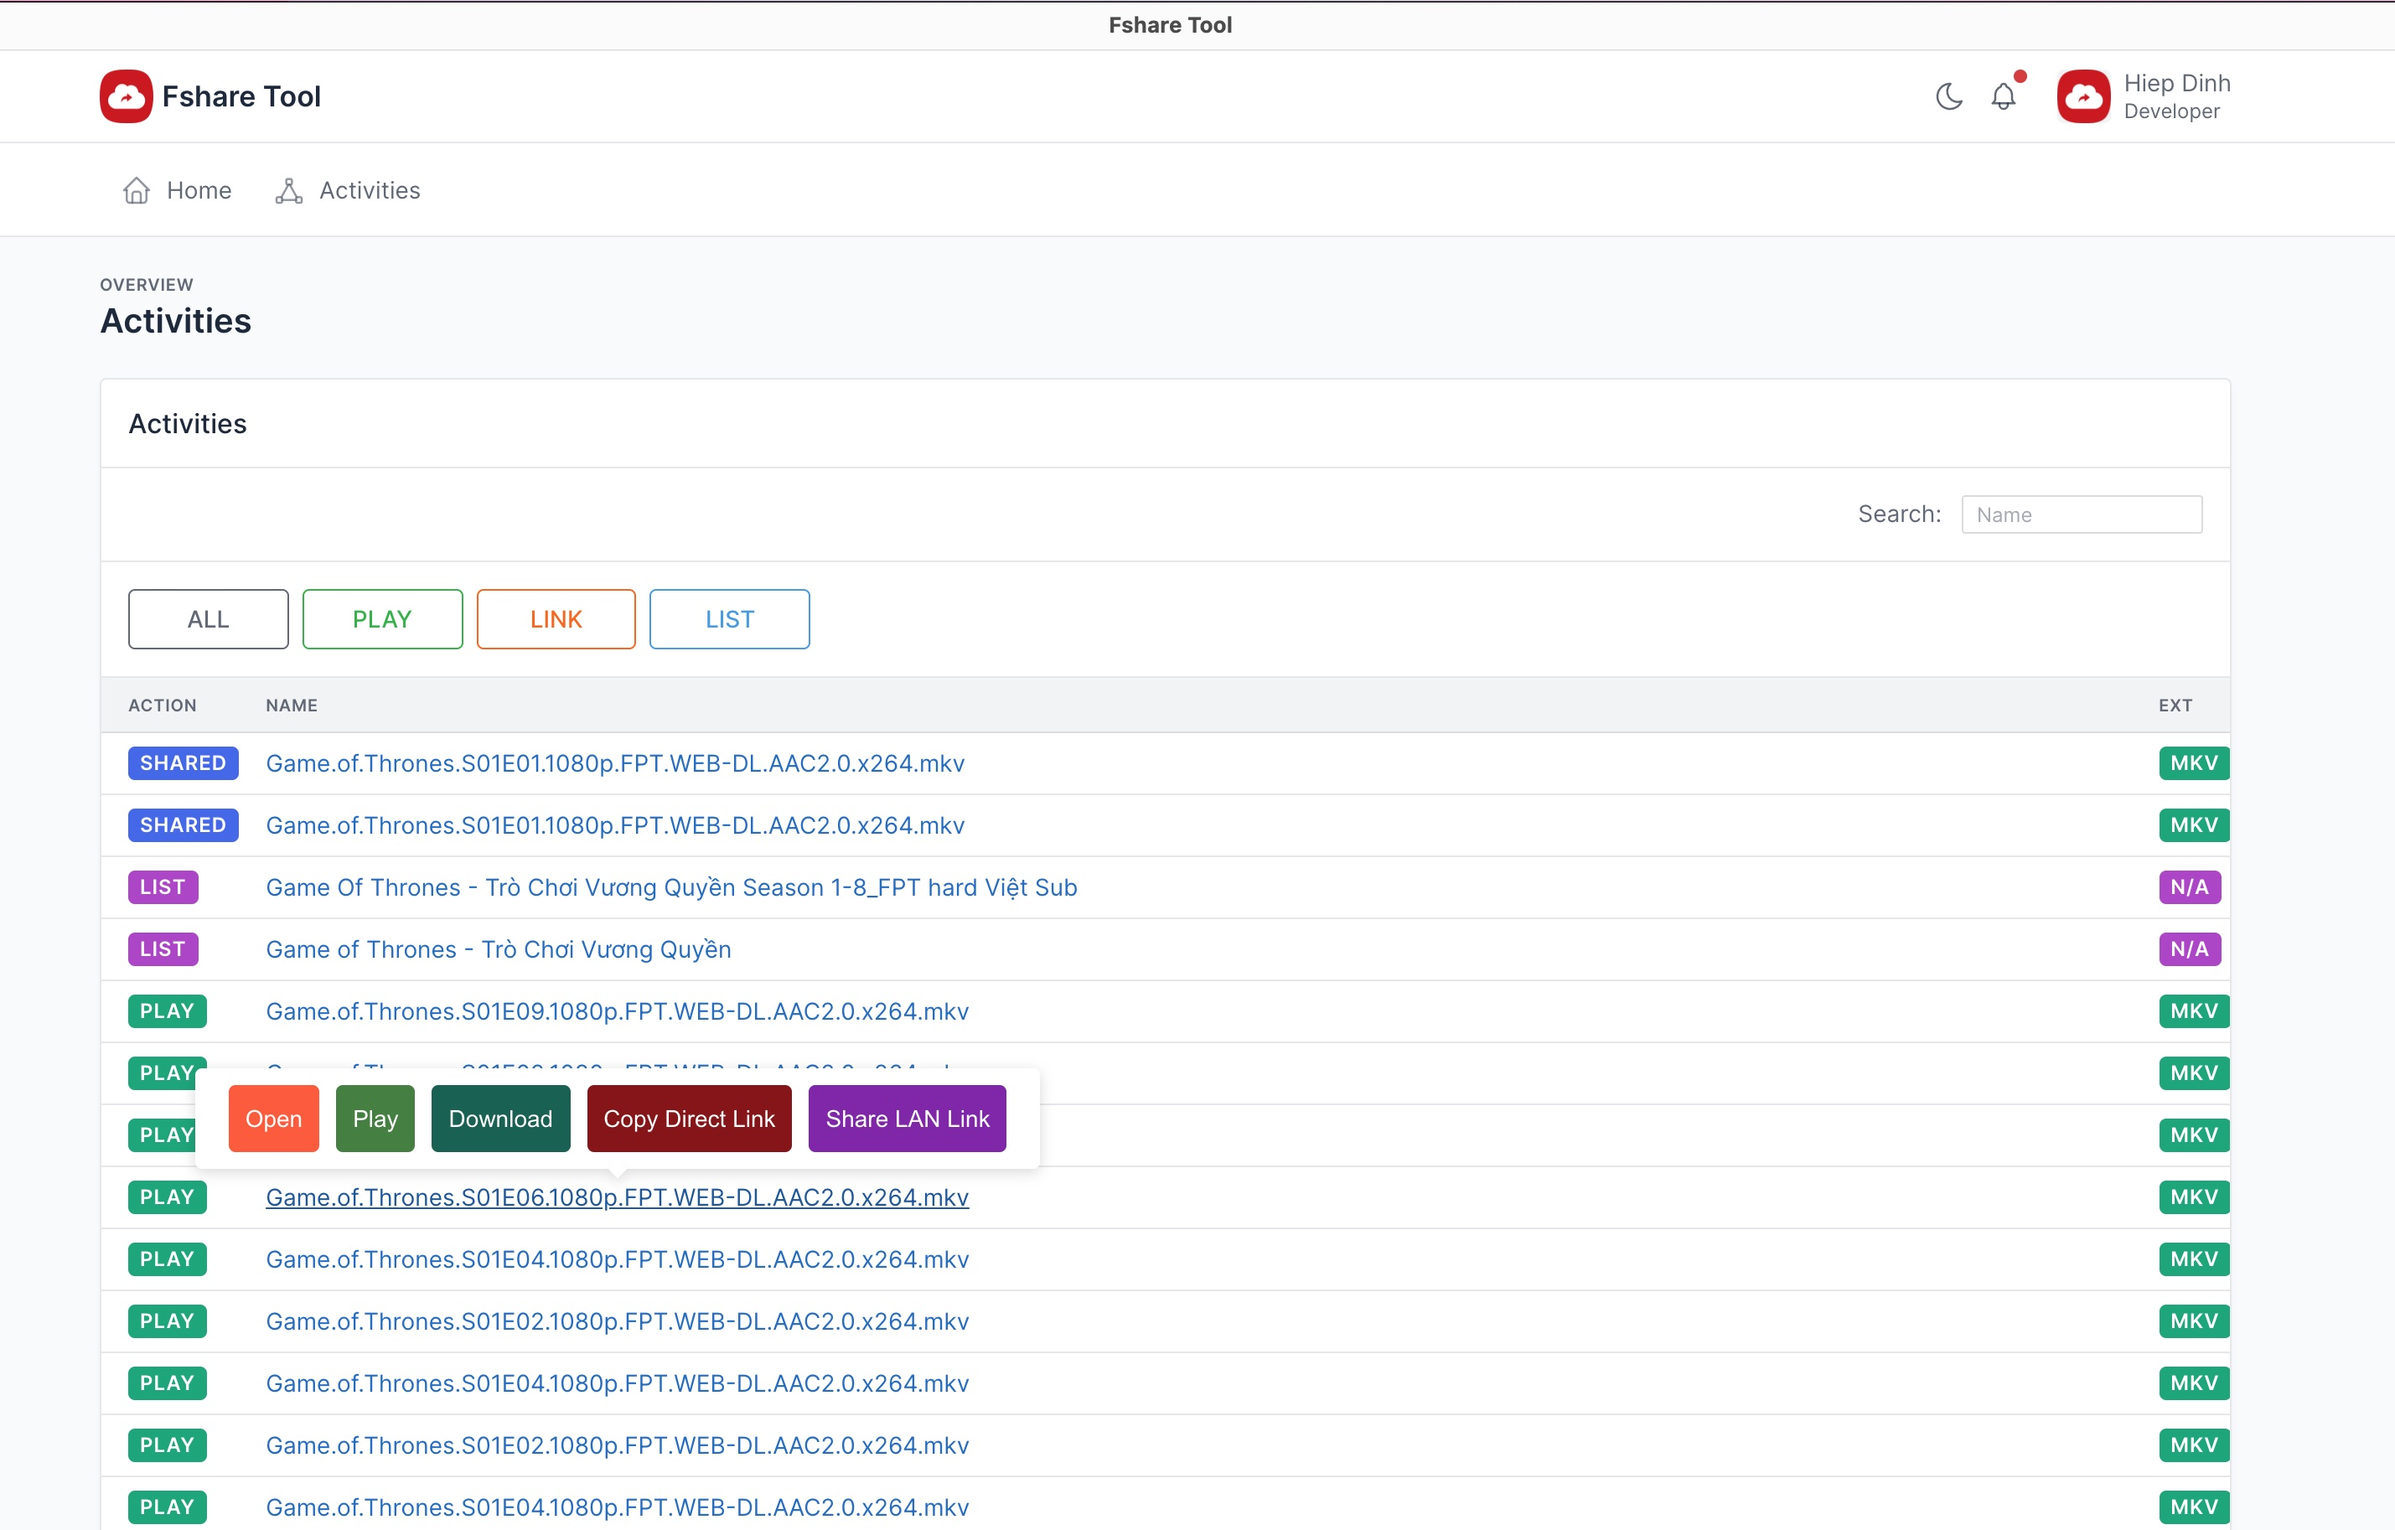
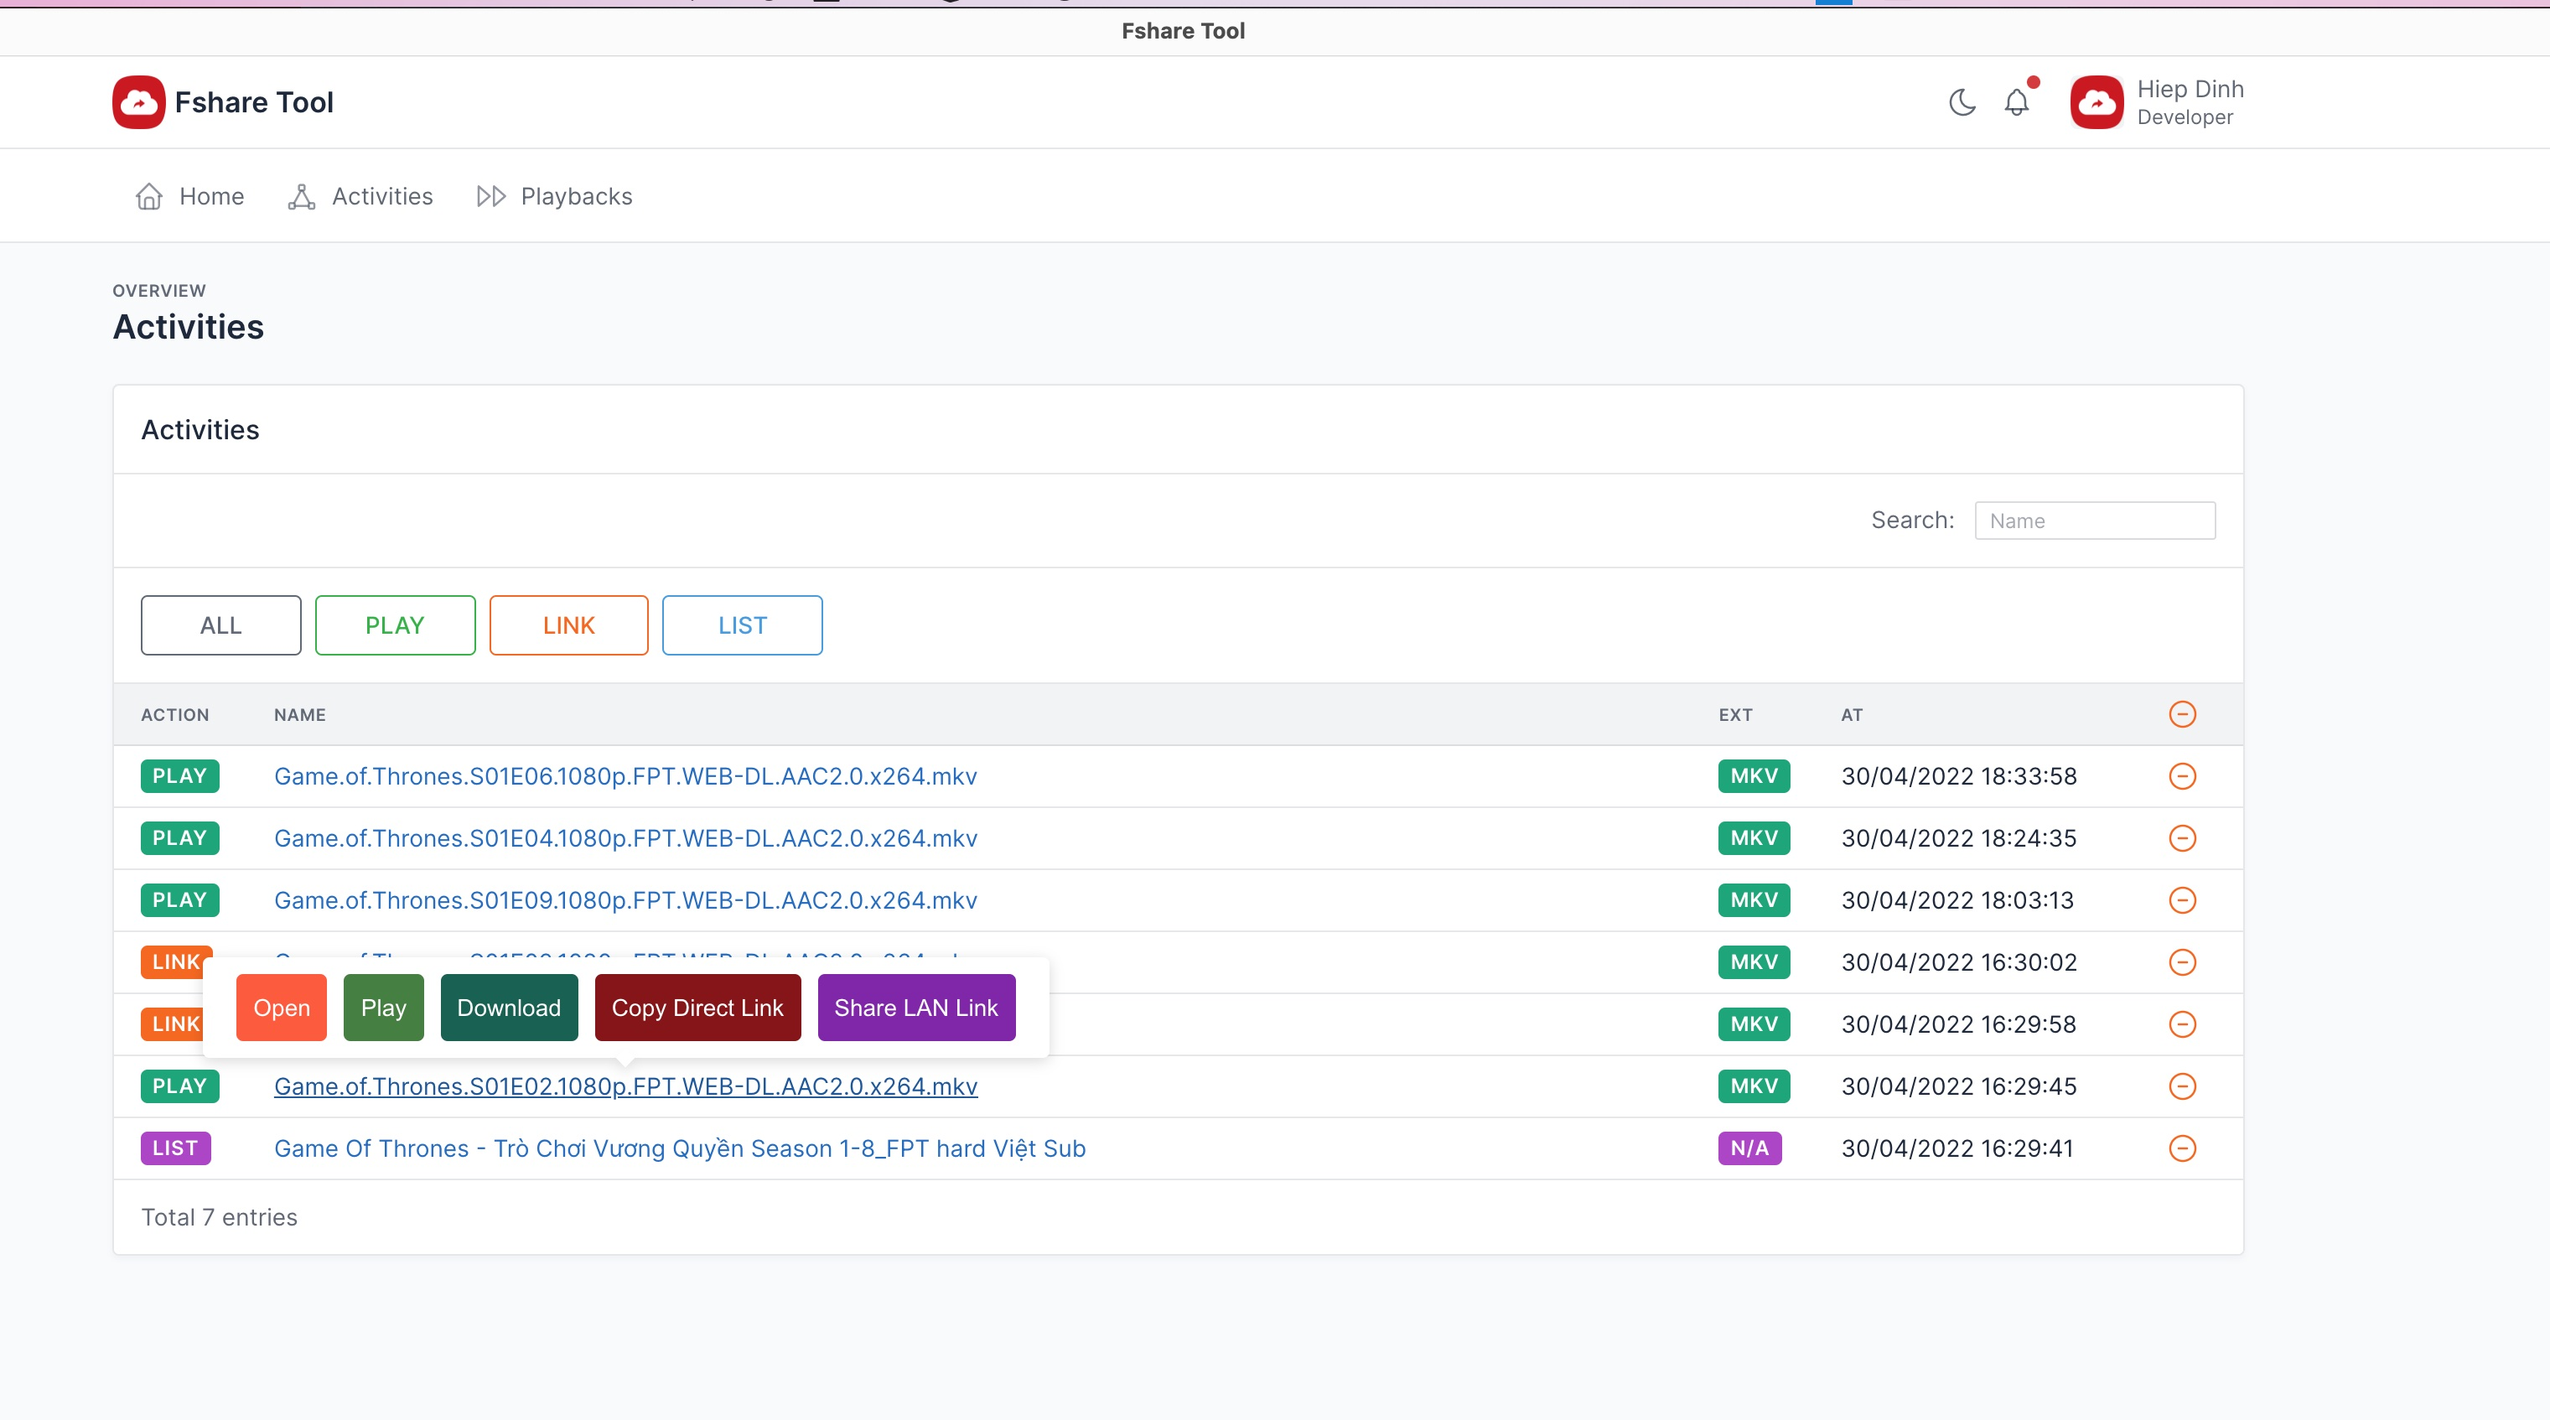
Add Playbacks page

diff --git a/babel.config.js b/babel.config.js
@@ -1,9 +1,9 @@
-module.exports = function(api) {
-  var validEnv = ['development', 'test', 'production']
-  var currentEnv = api.env()
-  var isDevelopmentEnv = api.env('development')
-  var isProductionEnv = api.env('production')
-  var isTestEnv = api.env('test')
+module.exports = function (api) {
+  var validEnv = ['development', 'test', 'production'];
+  var currentEnv = api.env();
+  var isDevelopmentEnv = api.env('development');
+  var isProductionEnv = api.env('production');
+  var isTestEnv = api.env('test');
 
   if (!validEnv.includes(currentEnv)) {
     throw new Error(
@@ -12,7 +12,7 @@ module.exports = function(api) {
         '"test", and "production". Instead, received: ' +
         JSON.stringify(currentEnv) +
         '.'
-    )
+    );
   }
 
   return {
@@ -21,9 +21,9 @@ module.exports = function(api) {
         '@babel/preset-env',
         {
           targets: {
-            node: 'current'
-          }
-        }
+            node: 'current',
+          },
+        },
       ],
       (isProductionEnv || isDevelopmentEnv) && [
         '@babel/preset-env',
@@ -32,9 +32,9 @@ module.exports = function(api) {
           useBuiltIns: 'entry',
           corejs: 3,
           modules: false,
-          exclude: ['transform-typeof-symbol']
-        }
-      ]
+          exclude: ['transform-typeof-symbol'],
+        },
+      ],
     ].filter(Boolean),
     plugins: [
       'babel-plugin-macros',
@@ -44,39 +44,39 @@ module.exports = function(api) {
       [
         '@babel/plugin-proposal-class-properties',
         {
-          loose: true
-        }
+          loose: true,
+        },
       ],
       [
         '@babel/plugin-proposal-object-rest-spread',
         {
-          useBuiltIns: true
-        }
+          useBuiltIns: true,
+        },
       ],
       [
         '@babel/plugin-proposal-private-methods',
         {
-          loose: true
-        }
+          loose: true,
+        },
       ],
       [
         '@babel/plugin-proposal-private-property-in-object',
         {
-          loose: true
-        }
+          loose: true,
+        },
       ],
       [
         '@babel/plugin-transform-runtime',
         {
-          helpers: false
-        }
+          helpers: false,
+        },
       ],
       [
         '@babel/plugin-transform-regenerator',
         {
-          async: false
-        }
-      ]
-    ].filter(Boolean)
-  }
-}
+          async: false,
+        },
+      ],
+    ].filter(Boolean),
+  };
+};

diff --git a/browser_extenstions/chrome/setting.html b/browser_extenstions/chrome/setting.html
@@ -24,12 +24,17 @@
       </div>
       <div class="card-footer">
         <div class="row align-items-center">
-          <div class="col">
-            <a href="javascript:;" id="view-activities">View Activities</a>
-          </div>
+          <div class="col"></div>
           <div class="col-auto">
             <button type="submit" class="btn btn-primary">Save</button>
           </div>
+        </div>
+        <hr />
+        <div class="row align-items-center">
+          <ul id="ref-links">
+            <li><a href="javascript:;" id="view-playbacks">Playbacks</a></li>
+            <li><a href="javascript:;" id="view-activities">Activities</a></li>
+          </ul>
         </div>
       </div>
     </form>

diff --git a/browser_extenstions/chrome/scripts/setting.js b/browser_extenstions/chrome/scripts/setting.js
@@ -25,6 +25,15 @@ $('form#setting').submit((e) => {
   });
 });
 
+$('#view-playbacks').click((e) => {
+  e.preventDefault();
+  chrome.storage.sync.get(['settings'], (data) => {
+    const settings = data.settings;
+    console.log('[Fshare Tool] Settings:', settings);
+    chrome.windows.create({ url: `${settings.serverUrl}/playbacks`, type: 'popup' });
+  });
+});
+
 $('#view-activities').click((e) => {
   e.preventDefault();
   chrome.storage.sync.get(['settings'], (data) => {

diff --git a/browser_extenstions/chrome/styles/setting.css b/browser_extenstions/chrome/styles/setting.css
@@ -2,6 +2,20 @@
   width: 500px;
 }
 
-#setting .alert-success{
+#setting .alert-success {
   display: none;
+}
+
+#setting hr {
+  margin: 10px 0;
+}
+
+#setting ul#ref-links {
+  margin: 0;
+  padding: 0 7px;
+  list-style: none;
+}
+
+#setting ul#ref-links li {
+  margin-bottom: 5px;
 }

diff --git a/app/javascript/styles/playbacks.scss b/app/javascript/styles/playbacks.scss
@@ -1,0 +1,4 @@
+.progress-text {
+  display: flex;
+  justify-content: space-between;
+}

diff --git a/app/javascript/styles/shared.scss b/app/javascript/styles/shared.scss
@@ -1,0 +1,3 @@
+progress::-webkit-progress-value {
+  background: #2bc11b !important;
+}

diff --git a/app/javascript/styles/application.js b/app/javascript/styles/application.js
@@ -1,0 +1,2 @@
+import 'styles/playbacks.scss';
+import 'styles/shared.scss';

diff --git a/app/controllers/playbacks_controller.rb b/app/controllers/playbacks_controller.rb
@@ -1,0 +1,15 @@
+# frozen_string_literal: true
+
+class PlaybacksController < ApplicationController
+  def index
+    @q = Playback.ransack(params[:q])
+    @playbacks = @q.result.order(updated_at: :desc).page(params[:page]).per(100)
+  end
+
+  def destroy
+    playback = Playback.find(params[:id])
+    playback.destroy
+
+    redirect_to playbacks_path, notice: "Playback #{playback.file_name} was destroyed successfully!"
+  end
+end

diff --git a/config/routes.rb b/config/routes.rb
@@ -10,6 +10,8 @@ Rails.application.routes.draw do
     end
   end
 
+  resources :playbacks, only: %i[index destroy]
+
   namespace :api do
     namespace :v1 do
       resources :health_check, only: %i[index], path: 'health-check'

diff --git a/README.md b/README.md
@@ -72,10 +72,16 @@ curl 'http://localhost:7777/api/v1/health-check'
   2.  Hover on fshare url
   ![non-fshare-page-hover-fshare-url](/public/docs/non-fshare-page-hover-fshare-url.jpg)
 #### IV. Activities (History)
-1. Open Fshare Tool Extension - Configuration popup. Click on `View Activities`
+1. Open Fshare Tool Extension - Configuration popup. Click on `Activities`
 ![fshare-config-activities](/public/docs/fshare-config-activities.jpg)
 2. Activities page
 ![activities-page](/public/docs/activities-page.jpg)
+
+#### IV. Playbacks
+1. Open Fshare Tool Extension - Configuration popup. Click on `Playbacks`
+![fshare-config-playbacks](/public/docs/fshare-config-playbacks.jpg)
+2. Playbacks page
+![playbacks-page](/public/docs/playbacks-page.jpg)
 
 ## License
 
